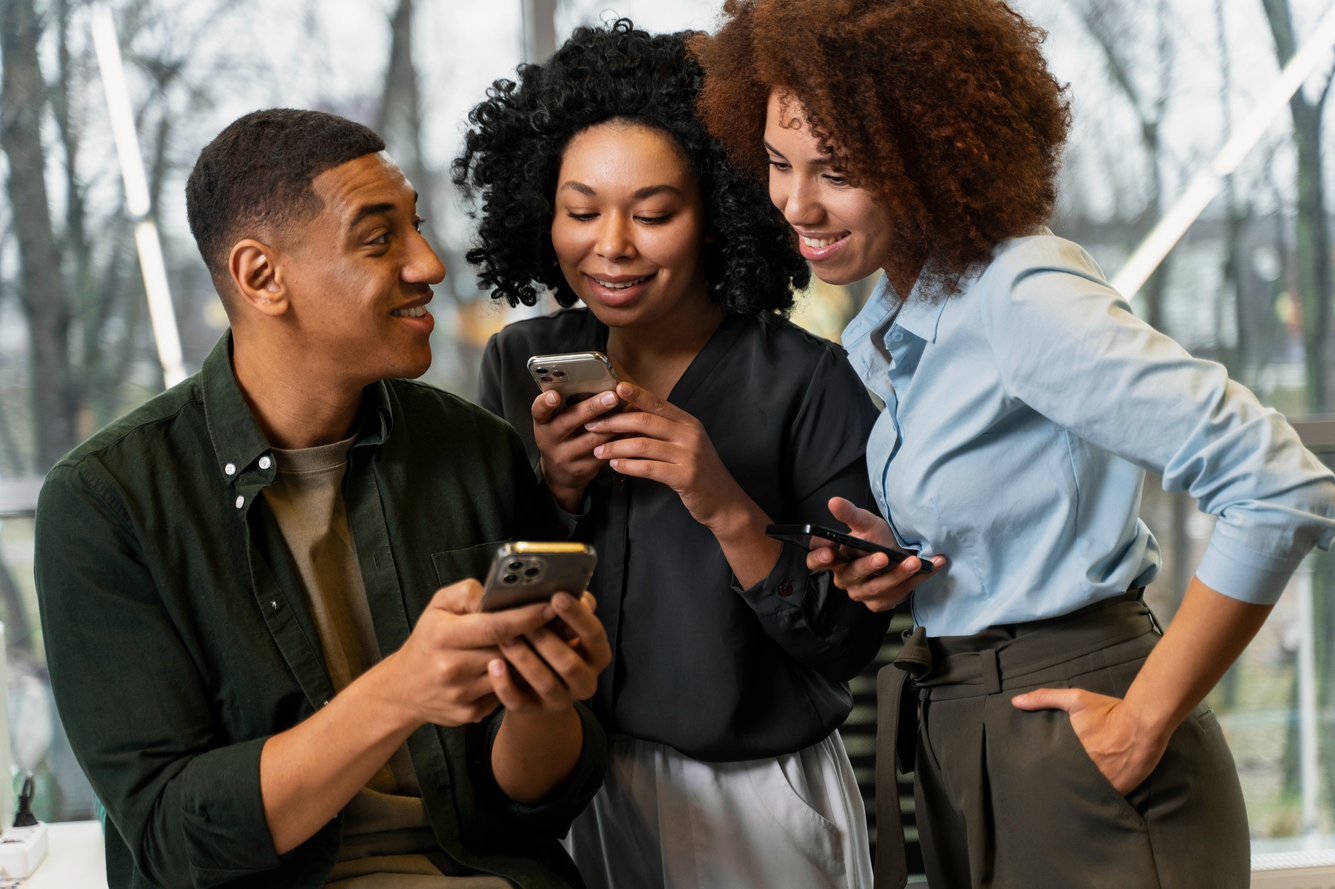
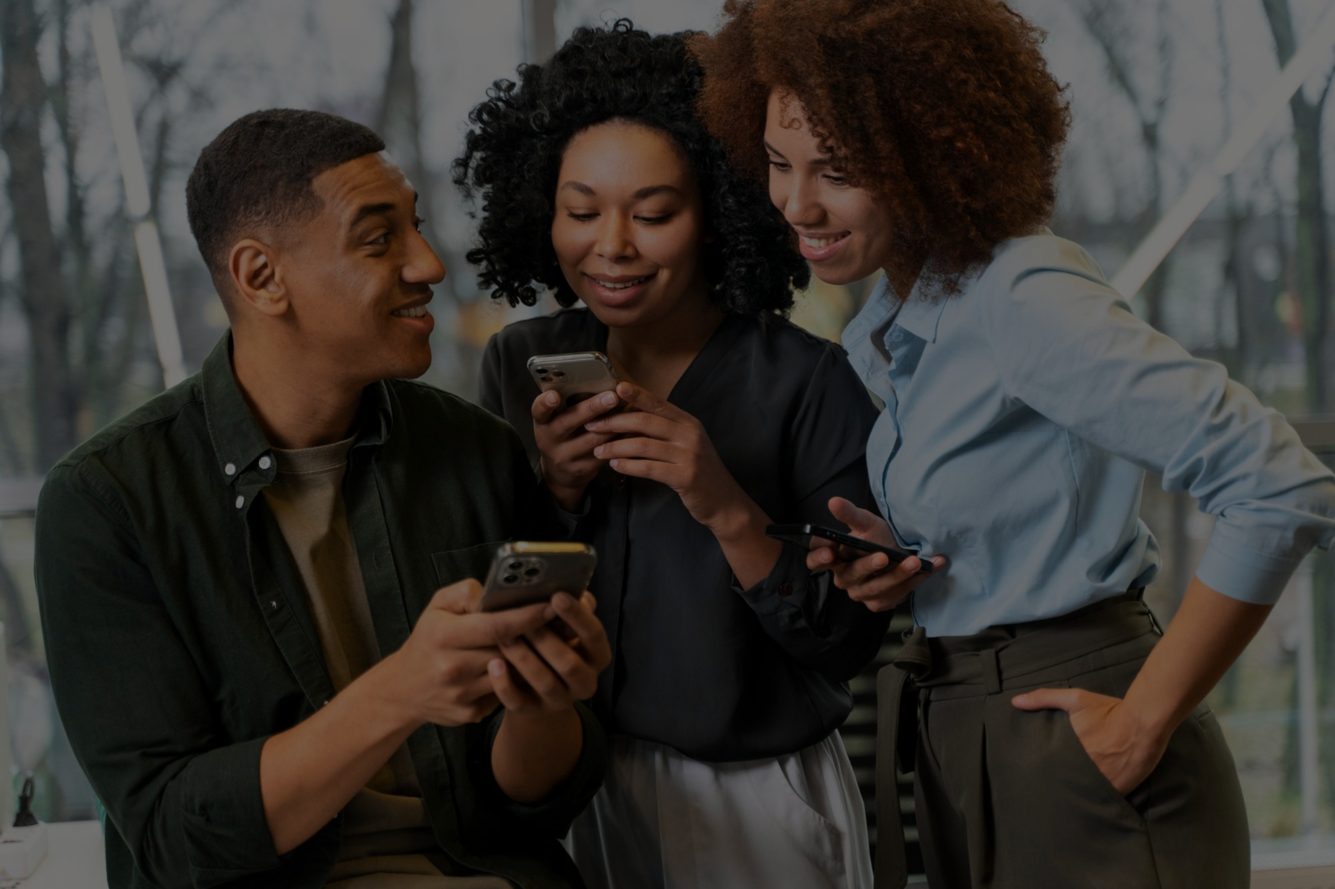
Implement code changes to enhance functionality and improve performance

diff --git a/src/pages/HomePage/HomePage.js b/src/pages/HomePage/HomePage.js
@@ -1,15 +1,19 @@
 import styles from "./HomePage.module.css";
 import googleBadge from "../../assets/google-badge.webp";
 import aplleBadge from "../../assets/apple-badge.webp";
+import printApp from "../../assets/print-app.jpg";
 
 
 function HomePage() {
     return (
         <div className={styles.homepage}>
-            <div className={styles.downloads}>
-                <img src={googleBadge} alt="Download no Google Play Store" className={styles.badge}/>
-                <img src={aplleBadge} alt="Download no Apple Store" className={styles.badge}/>
+            <div className={styles.container}>
+                <h1 className={styles.title}>Fecloc: o aplicativo de localização da <span className={styles.fec}>Fec!</span></h1>
+                <div className={styles.downloads}>
+                    <img src={googleBadge} alt="Download no Google Play Store" className={styles.badgeplay}/>
+                </div>
             </div>
+            <img src={printApp} alt="Aplicativo Fecloc" className={styles.printApp}/>
         </div>
     );
 }

diff --git a/src/pages/HomePage/HomePage.module.css b/src/pages/HomePage/HomePage.module.css
@@ -1,23 +1,30 @@
 .homepage{
-    background-image:url(../../assets/home-pessoas.jpg);
+    background-color: rgb(56, 56, 56);
     background-position: top;
     background-repeat: no-repeat;
     background-size: cover;
     height: 100vh;
     width: 100vw;
-    filter: brightness(50%);
 
     display: flex;
+    flex-direction: row-r;
+    align-items: center;
+    justify-content: space-around;
+    
+}
+
+.container{
+    display: flex;
+    flex-direction: column;
     align-items: center;
     justify-content: center;
 }
-
 .downloads{
     display: flex;
     flex-direction: row;
 }
 
-.badge{
+.badgeplay{
     width: 200px;
     /* image responsivity */
     height: 100px;
@@ -25,4 +32,20 @@
     /* image fit */
     object-fit: contain;
 
+}
+
+h1{
+    font-size: 24px;
+    font-weight: bold;
+    color: rgb(243, 243, 243);
+}
+
+.printApp{
+    width: 200px;
+    height: auto;
+    margin-top: 20px;
+}
+
+.fec{
+    color: #014195
 }

diff --git a/src/components/Navbar/Navbar.module.css b/src/components/Navbar/Navbar.module.css
@@ -32,7 +32,7 @@
 
 .itemNav a{
     text-decoration: none;
-    color: #f1f1f1;
+    color: #202020;
     font-size: 18px;
     font-weight: 600;
     transition: color 0.3s ease-out;
